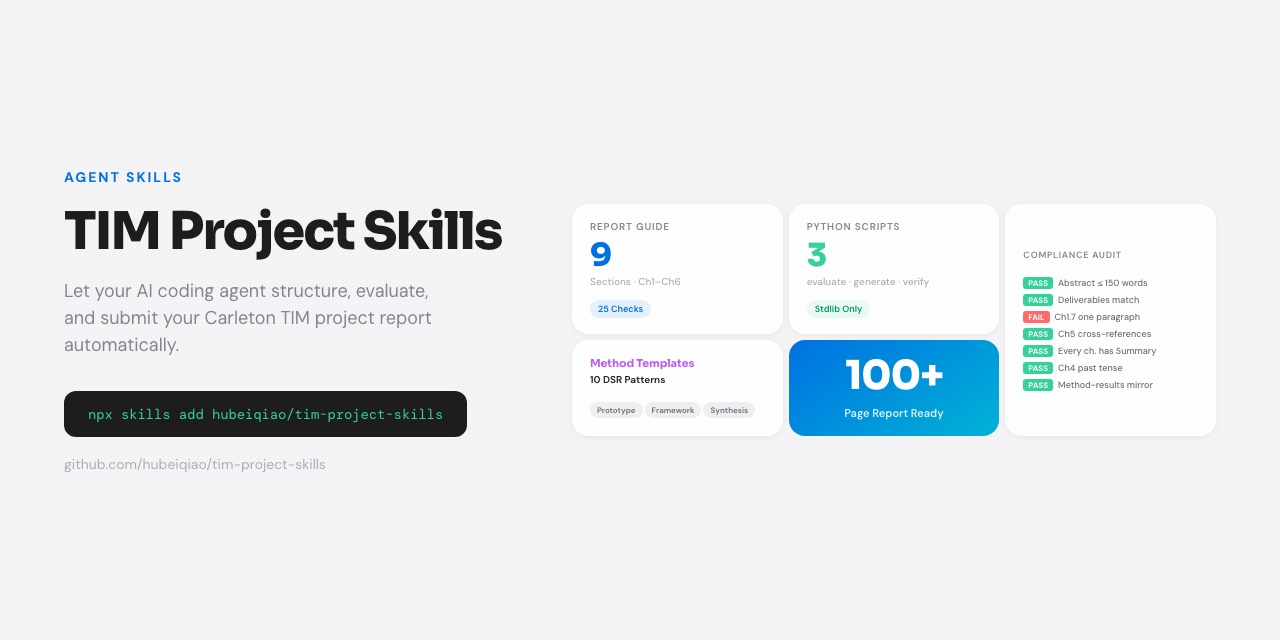
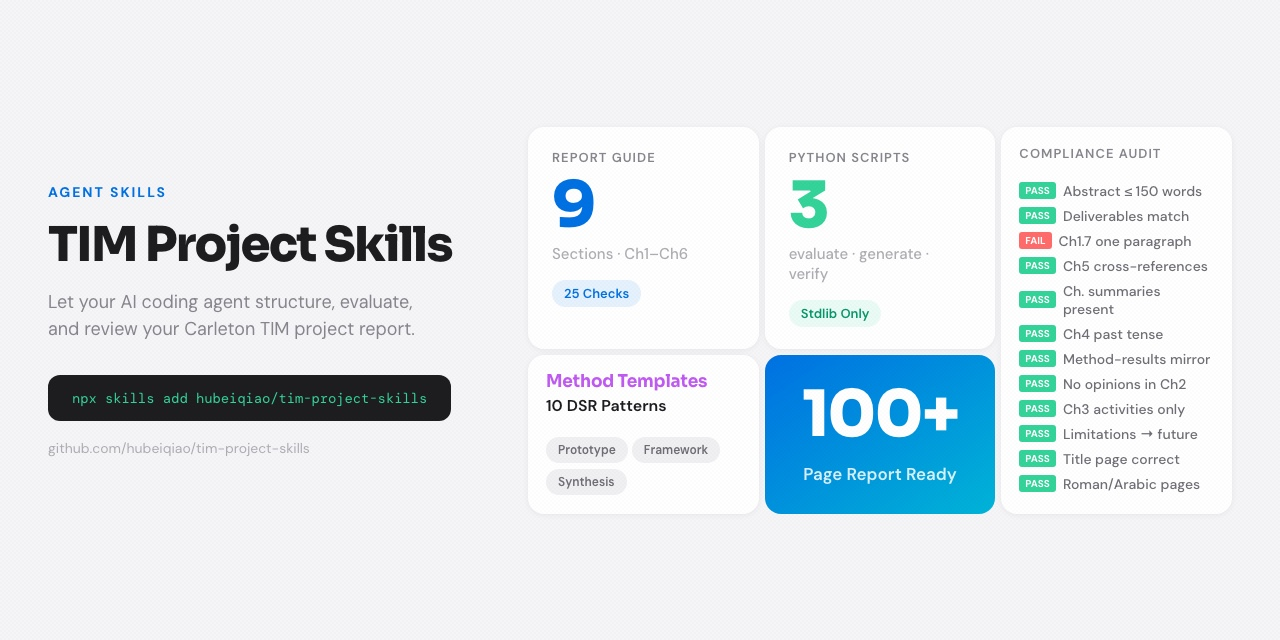
fix: fill OG bento grid — bigger fonts, 12 audit items, no empty space
- Numbers 64px, labels 13-15px, pills 12px, PASS/FAIL 14px
- Compliance audit: 12 items filling full card height
- Highlight: 64px "100+" with 17px label
- Fix subtitle: "review" not "submit automatically"

diff --git a/og-image.html b/og-image.html
@@ -34,17 +34,17 @@
   .og-card {
     width: 1280px;
     height: 640px;
-    padding: 48px 64px;
+    padding: 40px 48px;
     display: flex;
     align-items: center;
-    gap: 48px;
+    gap: 40px;
     position: relative;
     overflow: hidden;
   }
 
   /* === LEFT SIDE === */
   .left {
-    flex: 0 0 460px;
+    flex: 0 0 440px;
     display: flex;
     flex-direction: column;
     justify-content: center;
@@ -62,7 +62,7 @@
 
   .title {
     font-family: 'Sora', sans-serif;
-    font-size: 52px;
+    font-size: 48px;
     font-weight: 800;
     color: #1d1d1f;
     letter-spacing: -0.035em;
@@ -126,11 +126,11 @@
 
   .m-card {
     border-radius: 16px;
-    padding: 16px 18px;
+    padding: 22px 24px;
     display: flex;
     flex-direction: column;
-    justify-content: center;
-    gap: 6px;
+    justify-content: flex-start;
+    gap: 10px;
     position: relative;
     overflow: hidden;
     background: #fff;
@@ -191,9 +191,9 @@
   .m-badge {
     display: inline-block;
     font-family: 'DM Sans', sans-serif;
-    font-size: 9px;
+    font-size: 13px;
     font-weight: 600;
-    padding: 3px 8px;
+    padding: 5px 12px;
     border-radius: 100px;
     margin-top: 6px;
     width: fit-content;
@@ -205,12 +205,12 @@
 
   .m-label {
     font-family: 'DM Sans', sans-serif;
-    font-size: 10px;
+    font-size: 13px;
     font-weight: 600;
     text-transform: uppercase;
     letter-spacing: 0.08em;
     color: #86868b;
-    margin-bottom: 6px;
+    margin-bottom: 8px;
   }
 
   .m-num {
@@ -218,15 +218,15 @@
     font-weight: 800;
     letter-spacing: -0.03em;
     line-height: 1;
-    font-size: 32px;
+    font-size: 64px;
   }
 
   .m-sub {
     font-family: 'DM Sans', sans-serif;
-    font-size: 10px;
+    font-size: 15px;
     font-weight: 500;
     color: #aeaeb2;
-    margin-top: 4px;
+    margin-top: 6px;
   }
 
   /* Mini Eval — checklist card */
@@ -237,7 +237,7 @@
 
   .m-eval-title {
     font-family: 'DM Sans', sans-serif;
-    font-size: 9px;
+    font-size: 13px;
     font-weight: 600;
     color: #86868b;
     text-transform: uppercase;
@@ -248,35 +248,35 @@
   .m-eval-items {
     display: flex;
     flex-direction: column;
-    gap: 5px;
+    gap: 7px;
   }
 
   .m-eval-item {
     display: flex;
     align-items: center;
-    gap: 5px;
+    gap: 7px;
     font-family: 'DM Sans', sans-serif;
-    font-size: 9px;
+    font-size: 14px;
     font-weight: 500;
     color: #6e6e73;
   }
 
   .m-pass {
-    font-size: 8px;
+    font-size: 10px;
     font-weight: 700;
     color: #fff;
     background: #34d399;
-    padding: 1px 5px;
+    padding: 2px 6px;
     border-radius: 3px;
     flex-shrink: 0;
   }
 
   .m-fail {
-    font-size: 8px;
+    font-size: 10px;
     font-weight: 700;
     color: #fff;
     background: #ff6b6b;
-    padding: 1px 5px;
+    padding: 2px 6px;
     border-radius: 3px;
     flex-shrink: 0;
   }
@@ -294,7 +294,7 @@
 
   .m-phase-label {
     font-family: 'Sora', sans-serif;
-    font-size: 11px;
+    font-size: 17px;
     font-weight: 700;
     letter-spacing: -0.01em;
     margin-bottom: 3px;
@@ -302,7 +302,7 @@
 
   .m-phase-focus {
     font-family: 'DM Sans', sans-serif;
-    font-size: 10px;
+    font-size: 16px;
     font-weight: 600;
     color: #1d1d1f;
     margin-bottom: 8px;
@@ -317,13 +317,13 @@
   .m-pill {
     display: inline-block;
     font-family: 'DM Sans', sans-serif;
-    font-size: 8px;
+    font-size: 12px;
     font-weight: 600;
     color: #6e6e73;
     background: #f0f0f2;
     border-radius: 100px;
-    padding: 3px 7px;
-    margin: 2px 2px 2px 0;
+    padding: 5px 12px;
+    margin: 3px 4px 3px 0;
     white-space: nowrap;
   }
 
@@ -339,17 +339,17 @@
 
   .m-hl-num {
     font-family: 'Sora', sans-serif;
-    font-size: 40px;
+    font-size: 64px;
     font-weight: 800;
     color: #fff;
     letter-spacing: -0.03em;
     line-height: 1;
-    margin-bottom: 4px;
+    margin-bottom: 6px;
   }
 
   .m-hl-label {
     font-family: 'DM Sans', sans-serif;
-    font-size: 11px;
+    font-size: 17px;
     font-weight: 600;
     color: rgba(255,255,255,0.85);
     line-height: 1.3;
@@ -363,7 +363,7 @@
     <div class="left">
       <div class="eyebrow">Agent Skills</div>
       <div class="title">TIM Project Skills</div>
-      <div class="subtitle">Let your AI coding agent structure, evaluate, and submit your Carleton TIM project report automatically.</div>
+      <div class="subtitle">Let your AI coding agent structure, evaluate, and review your Carleton TIM project report.</div>
       <div class="install-block">
         <span class="install-cmd">npx skills add hubeiqiao/tim-project-skills</span>
       </div>
@@ -402,9 +402,14 @@
             <div class="m-eval-item"><span class="m-pass">PASS</span> Deliverables match</div>
             <div class="m-eval-item"><span class="m-fail">FAIL</span> Ch1.7 one paragraph</div>
             <div class="m-eval-item"><span class="m-pass">PASS</span> Ch5 cross-references</div>
-            <div class="m-eval-item"><span class="m-pass">PASS</span> Every ch. has Summary</div>
+            <div class="m-eval-item"><span class="m-pass">PASS</span> Ch. summaries present</div>
             <div class="m-eval-item"><span class="m-pass">PASS</span> Ch4 past tense</div>
             <div class="m-eval-item"><span class="m-pass">PASS</span> Method-results mirror</div>
+            <div class="m-eval-item"><span class="m-pass">PASS</span> No opinions in Ch2</div>
+            <div class="m-eval-item"><span class="m-pass">PASS</span> Ch3 activities only</div>
+            <div class="m-eval-item"><span class="m-pass">PASS</span> Limitations → future</div>
+            <div class="m-eval-item"><span class="m-pass">PASS</span> Title page correct</div>
+            <div class="m-eval-item"><span class="m-pass">PASS</span> Roman/Arabic pages</div>
           </div>
         </div>
 
